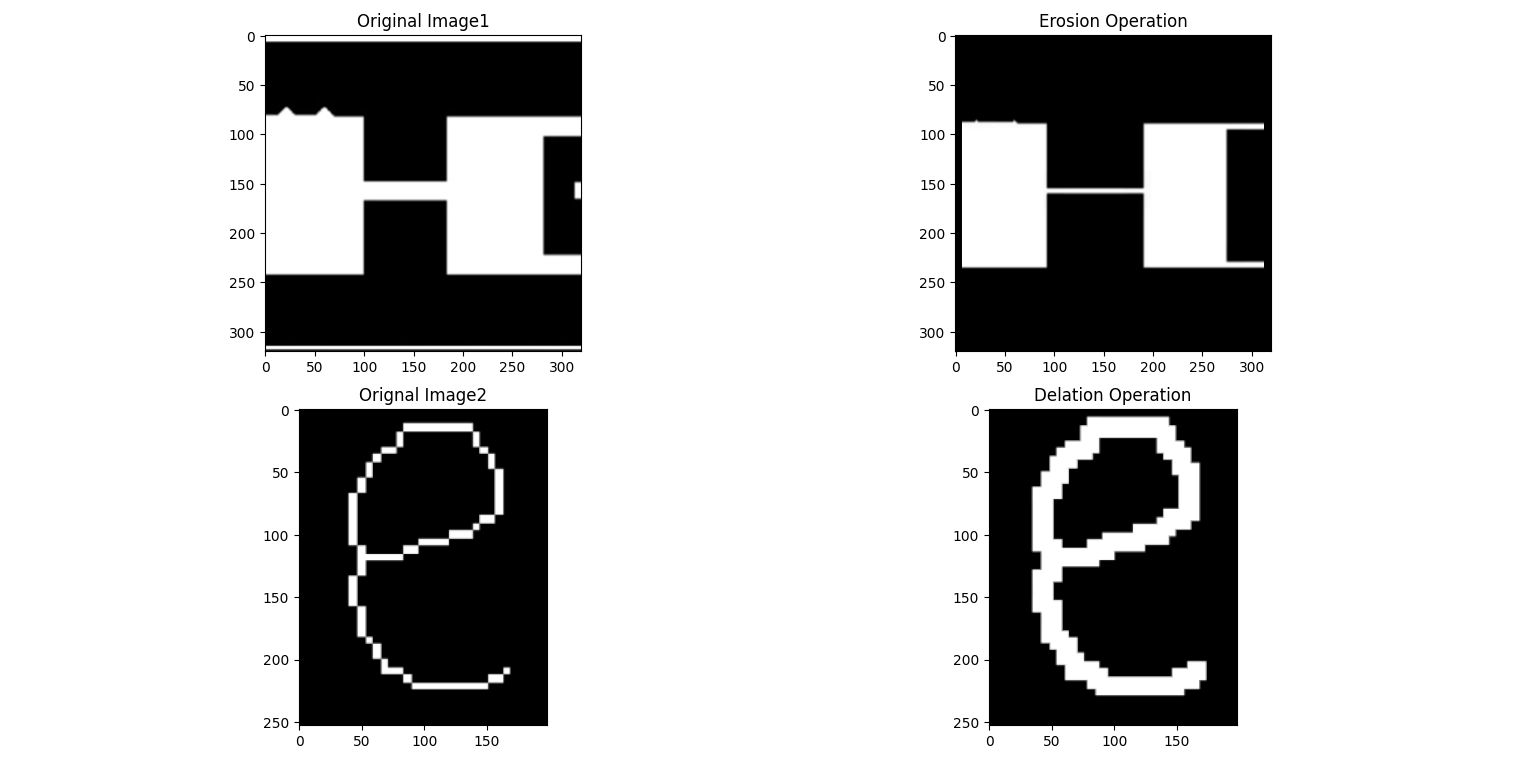
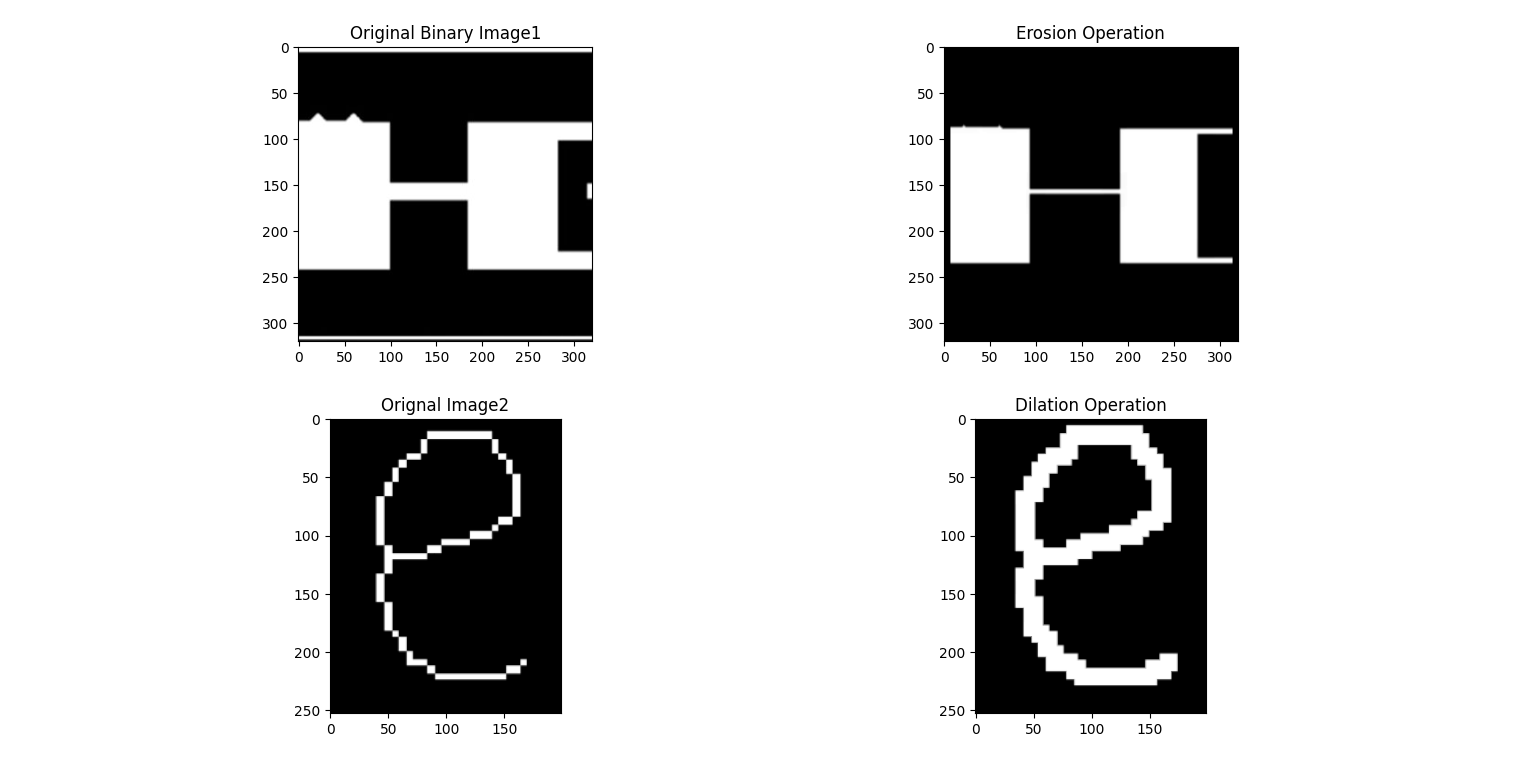
some changes to be commited

diff --git a/assignment_5a.py b/assignment_5a.py
@@ -55,7 +55,7 @@ pl.title("Orignal Image2")
 plt.imshow(image2, cmap='gray')
 
 plt.subplot(2, 2, 4)
-pl.title("Delation Operation")
+pl.title("Dilation Operation")
 plt.imshow(dilated_image, cmap='gray')
 
 plt.tight_layout()
